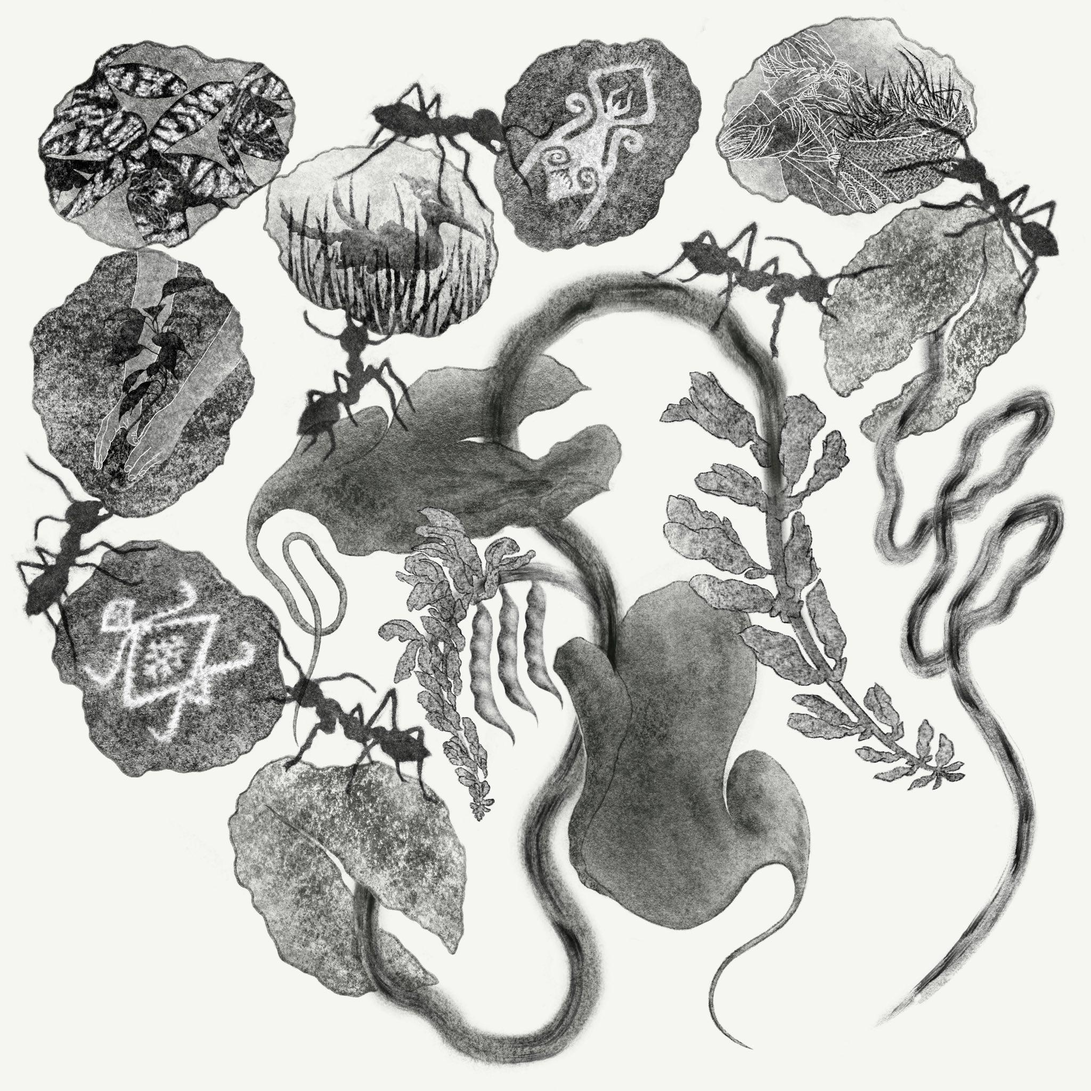
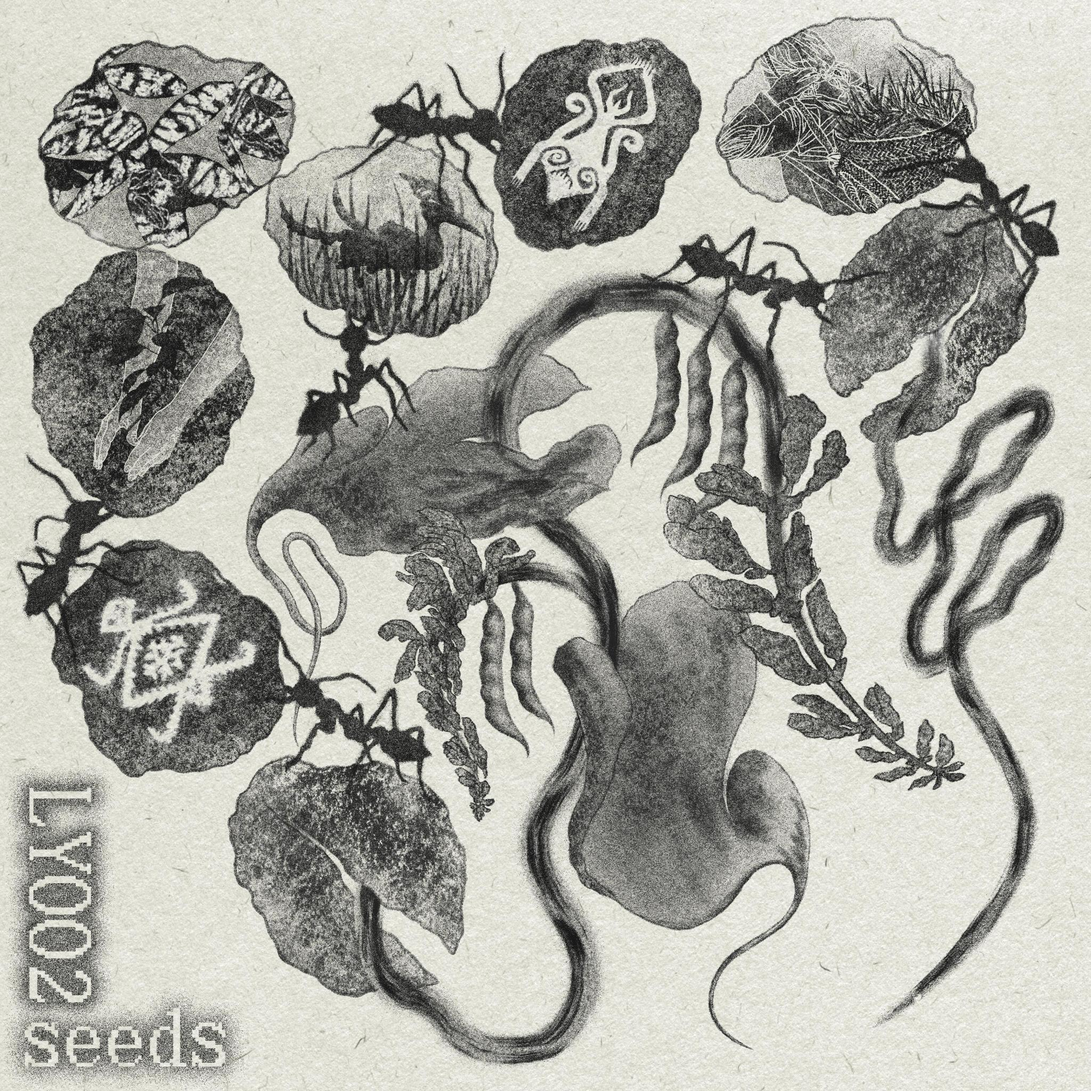
updated - just waiting on bitter party el rio
updated missing info, informational copy, bg color, final cover art

diff --git a/002.html b/002.html
@@ -27,7 +27,7 @@
   }
 
 	body {
-		background-color: rgb(255, 223, 128);
+		background-color: rgb(176, 193, 162);
 		padding-left: 30px;
 		padding-right: 30px;
 		padding-top: 30px;
@@ -97,9 +97,9 @@
 <div id="content-desktop">
 
   <!-- UNDER CONSTRUCTION MESSAGE -->
-  <div id="title">
+<!--   <div id="title">
     <span>AHH DON'T LOOK AT ME! I'M STILL GETTING DRESSED! I'LL BE READY SOON!<br><br></span>
-  </div>
+  </div> -->
 
 
 <!-- IMAGE -->
@@ -120,34 +120,18 @@
 	<br>
 
 <!-- INTRODUCTION TO LINER NOTES -->
-	<!-- <div id="body-text">
-		<p>Water flows, flushes, and cycles, constituting the majority of our bodies and planet and making possible all life on Earth. Inspired by the struggle to defend the Pulangi River, Liyang SoCal’s first mixtape called for contributors to respond to water in any and all of its forms and contexts.</p>
+	<div id="body-text">
+		<p>Inspired by the urgent and ever-growing international solidarity movement against imperialism, we called on musicians to respond to the theme of seeds. As we witness increasing repression and fascism around the world, our network meditated  on the growth, continuation, and multiplicity that sustains us and our movements.</p>
 
-		<p>The Pulangi is an extensive river system that supports the livelihood of many rural and indigenous communities as well as cities in Mindanao. The southernmost island of the Philippine archipelago, Mindanao is known for its lush forests and abundance of natural resources which make it the target of large-scale extractive industries around the world. Centuries of resistance left much of Mindanao outside of the reach of colonists that occupied other parts of the Philippine archipelago. Today, the decades-long struggle of communities of Lumad (Indigenous) people and peasants to defend Mindanao’s lands and waters from major damming projects and the plunder and pollution of large-scale agribusiness and mining ventures continues.</p>
+		<p>Liyang Network’s Defend the Defenders campaign is a response to this increasing repression of environmental and human rights defenders and advocates in the Philippines in the last four years. The campaign supports targeted activists in Mindanao from diverse groups - farmers, workers, Indigenous Peoples, and women - who are all part of the broad-based movement to free the country from foreign domination, and develop it sustainably for the Filipino people.</p>
 
-		<p>Our support of this struggle is ever-increasingly urgent as the calamitous effects of climate change compound with intense environmental degradation leading to more and more devastating disasters. While the Philippine Government refuses to provide aid to those affected and instead colludes with industries. They fund the militarization of rural and Indigenous communities and target the environmental and human rights defenders whose work is dedicated to exposing the root causes of environmental destruction in the Philippines.</p>
-
-		<p>We’ve dedicated this mixtape to some of these environmental and human rights defenders whose lives were taken in this struggle. On the evening of February 23rd, 2022, Chad Booc, Jurain Ngujo, Elegyn Balonga and their two drivers Robert Aragon and Tirso Añar were massacred by the Armed Forces of the Philippines (AFP) in New Bataan, Davao de Oro, while returning from a visit to rural communities in southern Mindanao.</p>
-
-		<p>The victims were unarmed civilians who had been active in supporting the Lumad struggle for self-determination. They were deliberately targeted by the AFP because of the far-reaching impact of their service.</p>
-
-		<p>Elegyn was a community health worker who served displaced Lumad communities in UCCP Haran sanctuary, and participated in medical missions serving marginalized rural communities in Mindanao. Her work exposed the unwillingness of the government to meet the needs of its people.</p>
-
-		<p>Chad and Jurain, meanwhile, were volunteer teachers at Lumad schools, both in communities and in evacuation. As Lumad school teachers, Chad and Jurain helped provide scientific and culturally-responsive education, incorporating sustainable agriculture skills and holistic health practices so that their students could go on to help develop and lead their communities.</p>
-
-		<p>Lumad schools were also a key component in communities’ struggles to defend their ancestral lands, in the face of mining, logging and agribusiness interests who had their eye on the resource-rich areas. Jurain and Chad helped empower generations of Lumad youth to assert their rights and take an active part in defending and shaping their communities’ futures.</p>
-
-		<p>Despite not being Lumad themselves, Chad, Jurain and Elegyn all dedicated themselves wholeheartedly to supporting the Lumad cause and struggle.</p>
-
-		<p>Included in a special mix at the end of this tape are excerpts from a song sung by Jurain and Lumad students and a conversation between Liyang and Chad recorded during a webinar in July of 2021. Jurain was a student at a Lumad school before choosing to serve the community by becoming a volunteer teacher himself. The song he and the students sing describes the 2016 Lakbayan ng Pambansang Minorya (People’s Caravan of National Minorities) in which Indigenous peoples from all throughout the Philippines came together in the thousands to call attention to their common struggle to defend their ancestral lands and claim their right to self-determination. Chad taught math at ALCADEV in Lianga, Mindanao after studying Computer Science in college, and was one of the Bakwit 7, who were Lumad students, elders, and volunteer teachers, arrested, held, and later released due to lack of evidence, for three months on fabricated charges in early 2021 because of their advocacy supporting Lumad youth.</p>
-
-		<p>Liyang SoCal joins the call for justice for the New Bataan 5 and dedicates this mixtape to their lives, work, and sacrifice. These heroes understood the supreme importance of the ongoing struggle to defend the land, water, and life in Mindanao as connected to environmental defense and liberation throughout the Philippines and around the world. As we listen, let us consider all the ways we can amplify calls for their justice and an end to exploitation, foreign plunder, and tyranny in Mindanao and around the world.</p> 
+		<p>Despite the Philippine government’s best efforts, the impacts of what has been built will not be extinguished, and defenders will continue to wage the struggle for land and life. Tied to the land, we find that seeds can represent the planting and re-planting done both literally and figuratively to win people’s struggles. Long live land defenders! Mabuhay!</p>
 
 	</div>
-	<br> -->
+	<br>
 
 	<div id="emphasized-text">
-		All proceeds go to Liyang Network's Defend the Defenders Campaign
+		All proceeds to this mixtape go to Liyang Network’s Defend the Defenders Campaign to sustain imprisoned peasant and Indigenous activists, and their families.
 	</div>
 
 	<br>
@@ -256,11 +240,12 @@
   </h2>
   <div class="content">
     <p>
-    !!TODO!!
+    From one pod<br>
+    Scattered
     </p>
 
     <p style="text-align: center">
-   
+   <a href="https://dovecot.bandcamp.com/" target="_blank" rel="noopener noreferrer">Bandcamp</a> / <a href="https://soundcloud.com/dovecotnet" target="_blank" rel="noopener noreferrer">SoundCloud</a>
 	</p>
 
  	</div>
@@ -277,9 +262,9 @@
     The track is both about a grasshopper that dies out in the grassy fields and transitions into an eternal blade of grass. Simultaneously, the lyrics explore the death of an elder in the community and their transition into the ancestral realm. We see that both are one-in-the-same, grasshopper and elder, as they have much to teach us albeit in different ways, and both ultimately join the eternal realm all the same.
     </p>
 
-    <p style="text-align: center">
+    <!-- <p style="text-align: center">
     <a href="" target="_blank" rel="noopener noreferrer">WAIT</a>
-	</p>
+	</p> -->
 
 
   </div>
@@ -293,7 +278,7 @@
   </h2>
   <div class="content">
     <p>
-    !!TODO: wait for email!!
+    [No liner notes requested.]
     </p>
 
     <p style="text-align: center">
@@ -384,7 +369,7 @@
     <a href="https://www.instagram.com/loon_lord_nj/" target="_blank" rel="noopener noreferrer">Instagram</a> / 
     <a href="https://twitter.com/LOON_LORD" target="_blank" rel="noopener noreferrer">Twitter</a> / 
     <a href="https://loonlordnj.bandcamp.com/" target="_blank" rel="noopener noreferrer">Bandcamp</a> / 
-    <a href="https://open.spotify.com/artist/4HHND2emvUReZnncXTwTXb" target="_blank" rel="noopener noreferrer">Spotify</a> / 
+    <a href="https://open.spotify.com/artist/4HHND2emvUReZnncXTwTXb" target="_blank" rel="noopener noreferrer">Spotify</a>
 	</p>
 
   </div>
@@ -656,7 +641,7 @@
     </p>
 
     <p style="text-align: center">
-    <a href="https://surcarilita.bandcamp.com/album/m-rala-mirando" target="_blank" rel="noopener noreferrer">Bandcamp</a>
+    <a href="https://surcarilita.bandcamp.com/" target="_blank" rel="noopener noreferrer">Bandcamp</a>
   </p>
 
   </div>
